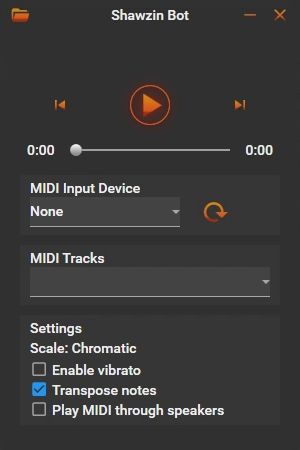
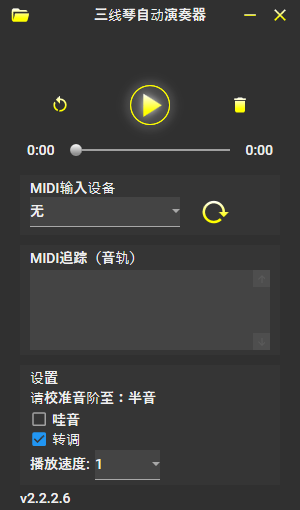
更新资源

diff --git a/README.md b/README.md
@@ -28,7 +28,7 @@ Using ShawzinBot is quite easy. As long as you don't separate any of it's compon
 ## Usage
 Once the program is running you'll see the following window:
 
-![ShawzinBot Overview](https://github.com/ianespana/ShawzinBot/blob/master/ShawzinBot/Resources/Overview.png)
+![ShawzinBot Overview](https://github.com/FreeStar007/ShawzinBotSpark/blob/main/ShawzinBot/Resources/Overview.png)
 
 On the top left corner there's a button you can click to open and load MIDI files. Once a file is open, all you have to do is click play and tab back into game. ShawzinBot will not mess with your keyboard unless you're tabbed into Warframe!
 
